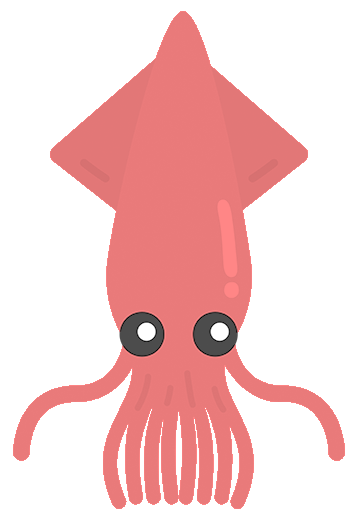
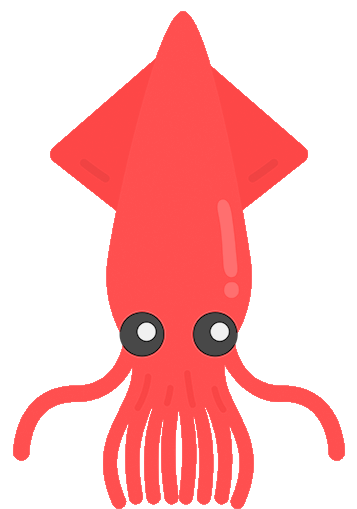
new 2P image add README.md

diff --git a/src/game.py b/src/game.py
@@ -186,6 +186,7 @@ class SwimmingSquid(PaiaGame):
 
         data_to_1p = {
             "frame": self.frame_count,
+            "collision_mode": self._collision_mode,
             "self_x": self.squid1.rect.centerx,
             "self_y": self.squid1.rect.centery,
             "self_w": self.squid1.rect.width,
@@ -204,6 +205,7 @@ class SwimmingSquid(PaiaGame):
 
         data_to_2p = {
             "frame": self.frame_count,
+            "collision_mode": self._collision_mode,
             "self_x": self.squid2.rect.centerx,
             "self_y": self.squid2.rect.centery,
             "self_w": self.squid2.rect.width,

diff --git a/src/env.py b/src/env.py
@@ -55,7 +55,7 @@ MUSIC_PATH = path.join(path.dirname(__file__), "..", "asset", "music")
 
 BG_PATH = path.join(ASSET_IMAGE_DIR, "background.png")
 SQUID_PATH = path.join(ASSET_IMAGE_DIR, "squid.png")
-SQUID2_PATH = path.join(ASSET_IMAGE_DIR, "squid2_02.png")
+SQUID2_PATH = path.join(ASSET_IMAGE_DIR, "squid2.png")
 
 IMG_ID_FOOD01_L = "food_01_L"
 IMG_ID_FOOD02_L = "food_02_L"

diff --git a/README.md b/README.md
@@ -6,7 +6,7 @@
 [![pygame](https://img.shields.io/badge/pygame-2.0.1-<COLOR>.svg)](https://github.com/pygame/pygame/releases/tag/2.0.1)
 
 
-這是一個吃東西小遊戲，也是 PAIA 的遊戲教學範例
+這是一個魷魚吃東西小遊戲，你需要找到正確的食物、避開海中的垃圾，還要提防敵人的攻擊！（當然你也可以主動攻擊他人）
 
 ![demo](https://github.com/PAIA-Playful-AI-Arena/swimming-squid/blob/main/asset/swimming-squid.gif?raw=true)
 
@@ -32,19 +32,44 @@ game = SwimmingSquid(
 
 ## 玩法
 
-- 使用鍵盤 上、下、左、右 控制方塊
+- 1P：使用鍵盤 上、下、左、右 控制魷魚
+- 2P：使用鍵盤 W、S、A、D 控制魷魚
 
-## 目標
+## 遊戲規則
 
-1. 在遊戲時間截止前，盡可能吃到愈多的食物吧！
+### 角色升級機制
+角色初始等級皆為 1，隨著得分增加升 / 降級。等級將會影響角色長寬與移動速度，各等級對應資料如下：
+| Lv| 角色寬度 | 角色高度 |移動速度|
+| --- | ------- | ------ | ------|
+| 1 | 30      | 45     |25|
+| 2 | 36      | 54     |21|
+| 3 | 42      | 63     |18|
+| 4 | 48      | 72     |16|
+| 5 | 54      | 81     |12|
+| 6 | 60      | 90     |9|
+
+### 得分 / 扣分規則
+1. 吃東西：
+   1. 角色可以透過吃海裡漂浮的東西獲取分數，但海裡也有垃圾存在，吃到垃圾將會扣分。
+   2. 不同的食物 / 垃圾會有不同的大小與分數。
+2. 玩家相撞：
+   1. 當地圖長寬皆大於 500 pixels 時，遊戲將增加碰撞機制。
+   2. 兩隻魷魚相撞時，如果一方等級較高，則等級高者加 10 分，等級低者扣 10 分。
+   3. 如果兩方等級相同，則雙方皆扣 5 分。
 
 ### 通關條件
 
-1. 時間結束前，吃到的食物超過`score`，即可過關。
+1. 時間結束前，吃到的食物超過`score`，即可晉級下一關。
+2. 若兩人同時通關，分數較高者勝。
+3. 若兩人同時通關且同分，遊戲將進入延長賽：提高 `score` 50 分，並且延長遊戲時間 600 frame。
+4. 遊戲最多延長 3 次。
 
 ### 失敗條件
 
 1. 時間結束前，吃到的食物少於`score`，即算失敗。
+2. 若兩人皆未能達成 `score`，分數較高者勝。
+3. 若兩人皆未能達成 `score` 且同分，遊戲將進入延長賽：`score` 維持不變，並且延長遊戲時間 300 frame。
+4. 遊戲最多延長 3 次。
 
 ---
 
@@ -90,14 +115,18 @@ class MLPlay:
 ```json
 {
   "frame": 15,
+  "collision_mode": True,
   "score": 8,
   "score_to_pass": 10,
-  "squid_x": 350,
-  "squid_y": 300,
-  "squid_h": 60,
-  "squid_w": 40,
-  "squid_lv": 1,
-  "squid_vel": 10,
+  "self_x": 100,
+  "self_y": 300,
+  "self_w": 30,
+  "self_h": 45,
+  "self_vel": 25,
+  "self_lv": 1,
+  "opponent_x":500,
+  "opponent_y":400,
+  "opponent_lv": 2,
   "status": "GAME_ALIVE",
   "foods": [
     {
@@ -153,13 +182,17 @@ class MLPlay:
 }
 ```
 
-- `frame`：遊戲畫面更新的編號
-- `squid_x`：玩家角色的Ｘ座標，表示方塊的`中心點`座標值，單位 pixel。
-- `squid_y`：玩家角色的Ｙ座標，表示方塊的`中心點`座標值，單位 pixel。
-- `squid_w`：玩家角色的寬度，單位 pixel。
-- `squid_h`：玩家角色的高度，單位 pixel。
-- `squid_vel`：玩家角色的速度，表示方塊每幀移動的像素，單位 pixel。
-- `squid_lv`：玩家角色的等級，最小 1 ，最大 6。
+- `frame`：遊戲畫面更新的編號。
+- `collision_mode`：本局是否有碰撞模式。
+- `self_x`：玩家角色的Ｘ座標，表示方塊的`中心點`座標值，單位 pixel。
+- `self_y`：玩家角色的Ｙ座標，表示方塊的`中心點`座標值，單位 pixel。
+- `self_w`：玩家角色的寬度，單位 pixel。
+- `self_h`：玩家角色的高度，單位 pixel。
+- `self_vel`：玩家角色的速度，表示方塊每幀移動的像素，單位 pixel。
+- `self_lv`：玩家角色的等級，最小 1 ，最大 6。 
+- `opponent_x`：對手角色的Ｘ座標，表示方塊的`中心點`座標值，單位 pixel。
+- `opponent_y`：對手角色的Ｙ座標，表示方塊的`中心點`座標值，單位 pixel。
+- `opponent_lv`：對手角色的等級，最小 1 ，最大 6。 
 - `foods`：食物的清單，清單內每一個物件都是一個食物的`中心點`座標值，也會提供此食物是什麼類型和分數多少。
   -  `type` 食物類型： `FOOD_1`, `FOOD_2`, `FOOD_3`, `GARBAGE_1`, `GARBAGE_2`, `GARBAGE_3`
 - `score`：目前得到的分數
